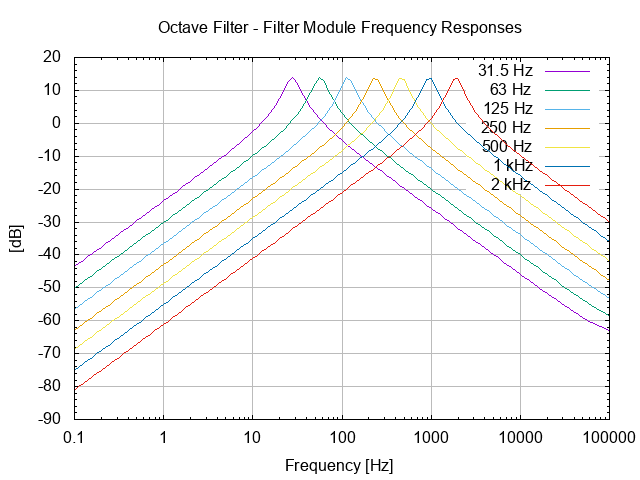
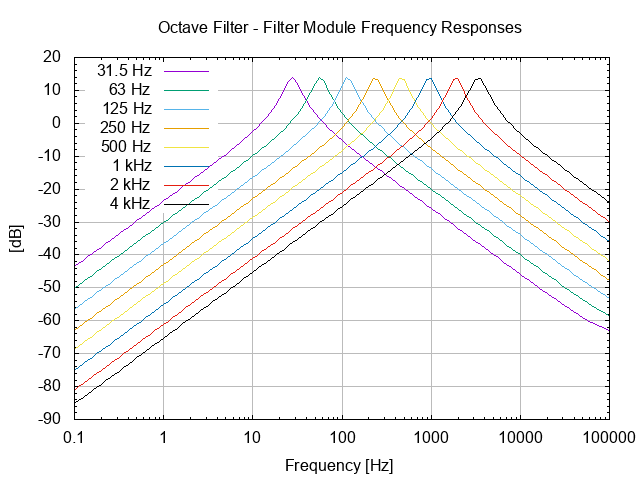
Added gnucap files and graph.

Changed region(s): [[0.1562, 0.125, 0.3125, 0.4375], [0.75, 0.125, 0.9375, 0.4062]]

diff --git a/docs/README.md b/docs/README.md
@@ -586,6 +586,12 @@ as to investigate the power up of the input stage.
 
 ----
 
+###### Function 016: 4 kHz Band-pass Filter.
+
+![4 kHz Band-pass Filter - Frequency response](../ecad/gnucap/26.016.00.00.01.png)
+
+----
+
 #### ktechlab simulations.
 
 ### Breadboard prototyping.
